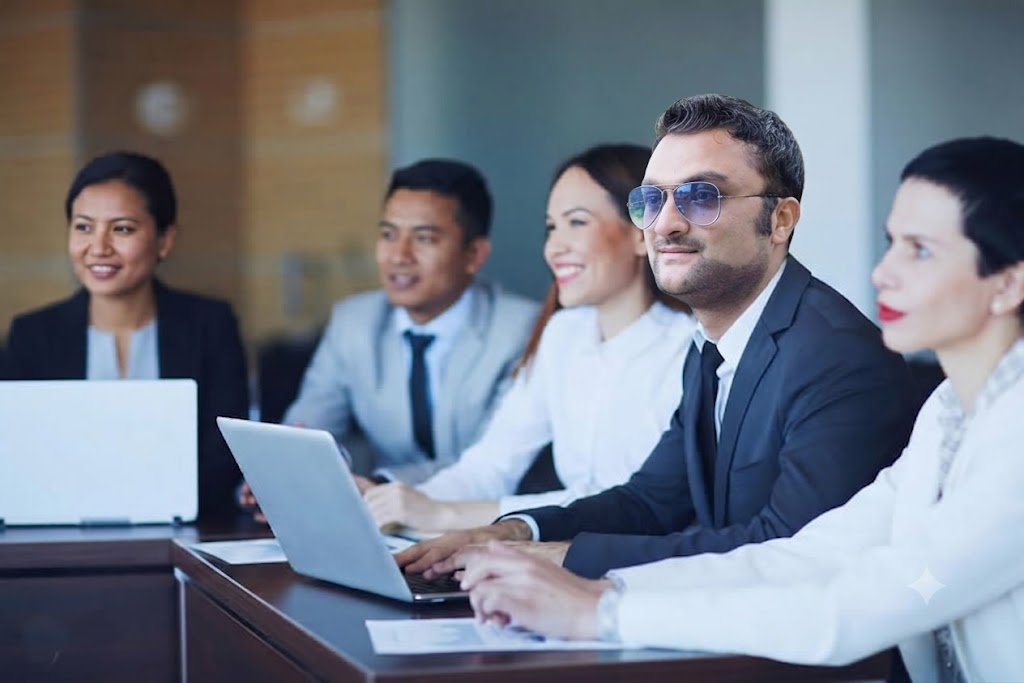
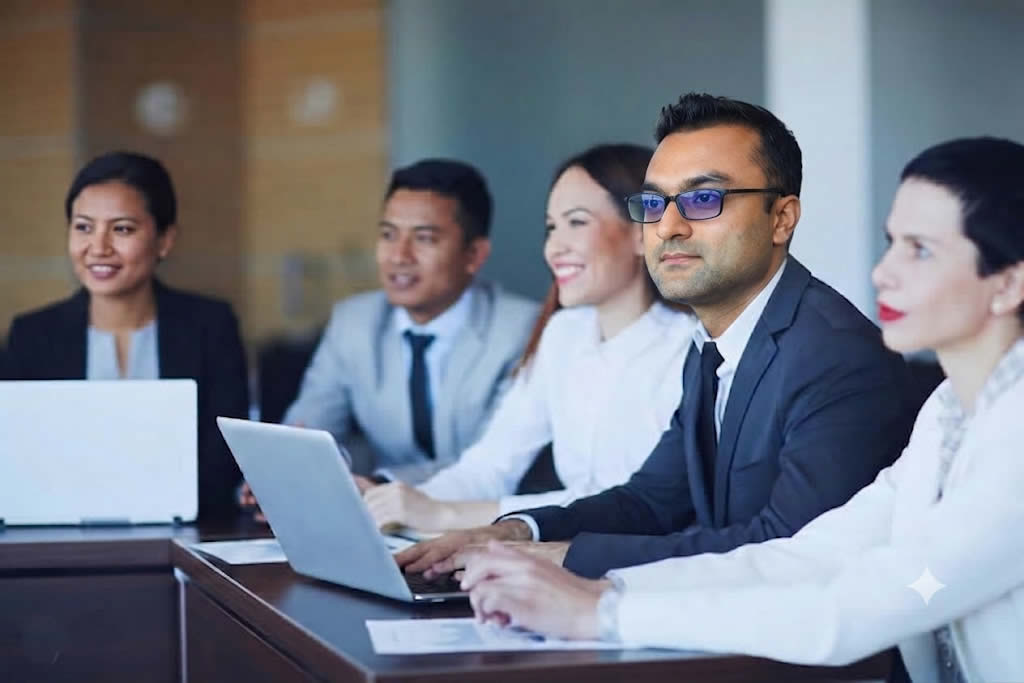
page updated

Changed region(s): [[0.5938, 0.123, 0.8125, 0.5227]]

diff --git a/css/theme.css b/css/theme.css
@@ -6786,6 +6786,114 @@ body {
   box-shadow: 0 10px 26px rgba(37, 99, 235, 0.36);
 }
 
+/* ============================================================
+   About → "The engineers who ship the code" — team showcase
+   on a brand-blue gradient with photos + overlapping name cards.
+   ============================================================ */
+.eng-showcase {
+  position: relative;
+  margin-top: 3.5rem;
+  border-radius: 26px;
+  padding: clamp(2.25rem, 4vw, 3.5rem) clamp(1.25rem, 3vw, 3rem) clamp(2.5rem, 4vw, 3.5rem);
+  overflow: hidden;
+  background:
+    radial-gradient(ellipse 60% 55% at 85% 0%, rgba(46, 125, 224, 0.40) 0%, transparent 55%),
+    radial-gradient(ellipse 50% 50% at 0% 100%, rgba(99, 102, 241, 0.25) 0%, transparent 55%),
+    linear-gradient(160deg, #0d1b2e 0%, #0d3f8f 55%, #1a6bcc 100%);
+}
+.eng-showcase__head {
+  text-align: center;
+  max-width: 660px;
+  margin: 0 auto clamp(2rem, 4vw, 3rem);
+}
+.eng-showcase__eyebrow {
+  color: #7cb6ff !important;
+  font-size: 0.78rem; font-weight: 600;
+  letter-spacing: 0.12em; text-transform: uppercase;
+  margin: 0 0 0.75rem;
+}
+.eng-showcase__head .eng-showcase__title {
+  color: #ffffff !important;
+  font-size: clamp(1.6rem, 1.3rem + 1vw, 2.2rem) !important;
+  font-weight: 800; letter-spacing: -0.02em;
+  margin: 0 0 0.7rem !important;
+}
+.eng-showcase__lead {
+  color: rgba(255, 255, 255, 0.72) !important;
+  font-size: 1.02rem; line-height: 1.6; margin: 0;
+}
+
+.eng-row {
+  display: grid;
+  grid-template-columns: repeat(4, 1fr);
+  gap: 1.5rem;
+  max-width: 1080px;
+  margin: 0 auto;
+  align-items: end;
+}
+.eng-member {
+  display: flex;
+  flex-direction: column;
+  align-items: center;
+}
+.eng-member__photo {
+  position: relative;
+  width: 100%;
+  aspect-ratio: 4 / 5;
+  border-radius: 18px;
+  overflow: hidden;
+  background: linear-gradient(150deg, rgba(255, 255, 255, 0.14) 0%, rgba(255, 255, 255, 0.04) 100%);
+  box-shadow: 0 22px 45px rgba(2, 8, 23, 0.40), inset 0 0 0 1px rgba(255, 255, 255, 0.10);
+  transition: transform 0.25s ease, box-shadow 0.25s ease;
+}
+.eng-member__photo::before {
+  content: attr(data-initials);
+  position: absolute; inset: 0; z-index: 0;
+  display: flex; align-items: center; justify-content: center;
+  font-family: 'Inter', system-ui, sans-serif;
+  font-size: clamp(2.5rem, 5vw, 3.5rem); font-weight: 800;
+  color: rgba(255, 255, 255, 0.85); letter-spacing: -0.03em;
+}
+.eng-member__photo img {
+  position: relative; z-index: 1;
+  width: 100%; height: 100%;
+  object-fit: cover; object-position: center top;
+  display: block;
+}
+.eng-member:hover .eng-member__photo {
+  transform: translateY(-4px);
+  box-shadow: 0 30px 55px rgba(2, 8, 23, 0.50), inset 0 0 0 1px rgba(124, 182, 255, 0.40);
+}
+.eng-member__card {
+  position: relative; z-index: 2;
+  width: 90%;
+  margin-top: -2.4rem;
+  background: #ffffff;
+  border-radius: 14px;
+  padding: 0.95rem 1.15rem;
+  box-shadow: 0 18px 38px rgba(2, 8, 23, 0.28);
+  text-align: left;
+}
+.eng-member__name {
+  font-size: 1rem !important; font-weight: 700 !important;
+  color: #0f172a !important; margin: 0 !important; line-height: 1.25;
+  letter-spacing: -0.01em;
+}
+.eng-member__role {
+  font-size: 0.85rem !important; font-weight: 500 !important;
+  color: #2563eb !important; margin: 0.2rem 0 0 !important;
+}
+
+@media (max-width: 900px) {
+  .eng-row { grid-template-columns: repeat(2, 1fr); gap: 1.25rem; }
+}
+@media (max-width: 480px) {
+  .eng-row { grid-template-columns: 1fr 1fr; gap: 0.85rem; }
+  .eng-member__card { width: 94%; padding: 0.75rem 0.85rem; }
+  .eng-member__name { font-size: 0.9rem !important; }
+  .eng-member__role { font-size: 0.78rem !important; }
+}
+
 
 
 

diff --git a/about.html b/about.html
@@ -416,57 +416,51 @@
 
         <p class="leader-card__footnote" data-reveal data-reveal-delay="4">Below the leadership is an in-house engineering team in Kathmandu that bridges back-end, mobile, AI, SaaS, and DevOps practices. The same engineer who appears in discovery is the engineer who ships the code &mdash; not a bait-and-switch onto juniors after the contract signs. <strong>We don&rsquo;t use subcontractors. We don&rsquo;t outsource to a freelancer pool. The team is the team.</strong></p>
 
-        <!-- Engineering team — named, LinkedIn-verifiable engineers -->
-        <header class="pillar-section__head team-members__head" data-reveal>
-          <p class="pillar-section__eyebrow">THE ENGINEERS</p>
-          <h2>The engineers who ship the code.</h2>
-          <p class="pillar-section__lead">The in-house Kathmandu team behind the platforms &mdash; named and reachable, the same people from discovery through deployment.</p>
-        </header>
+        <!-- Engineering team — showcase on brand gradient, name cards below -->
+        <div class="eng-showcase" data-reveal>
+          <header class="eng-showcase__head">
+            <p class="eng-showcase__eyebrow">THE ENGINEERS</p>
+            <h2 class="eng-showcase__title">The engineers who ship the code.</h2>
+            <p class="eng-showcase__lead">The in-house Kathmandu team behind the platforms &mdash; named and reachable, the same people from discovery through deployment.</p>
+          </header>
 
-        <div class="team-grid">
-          <!-- Sujit Sah -->
-          <article class="team-card" data-reveal data-reveal-delay="1">
-            <div class="team-card__photo" data-initials="SS"><img src="images/sujit.jpg" alt="Sujit Sah, Full Stack Developer" loading="lazy" width="96" height="96" decoding="async" onerror="this.style.display='none';"></div>
-            <h3 class="team-card__name">Sujit Sah</h3>
-            <p class="team-card__role">Full Stack Developer</p>
-            <div class="team-card__exp">
-              <svg width="15" height="15" viewBox="0 0 24 24" fill="none" stroke="currentColor" stroke-width="2" stroke-linecap="round" stroke-linejoin="round" aria-hidden="true"><circle cx="12" cy="12" r="9"/><polyline points="12 7 12 12 15.5 14"/></svg>
-              <span><strong>16</strong> Years Experience</span>
-            </div>
-          </article>
+          <div class="eng-row">
+            <!-- Sujit Sah -->
+            <article class="eng-member" data-reveal data-reveal-delay="1">
+              <div class="eng-member__photo" data-initials="SS"><img src="images/sujit.jpg" alt="Sujit Sah, Full Stack Developer" loading="lazy" decoding="async" onerror="this.remove();"></div>
+              <div class="eng-member__card">
+                <h3 class="eng-member__name">Sujit Sah</h3>
+                <p class="eng-member__role">Full Stack Developer</p>
+              </div>
+            </article>
 
-          <!-- Kaushal Sah -->
-          <article class="team-card" data-reveal data-reveal-delay="2">
-            <div class="team-card__photo team-card__photo--initials" data-initials="KS"></div>
-            <h3 class="team-card__name">Kaushal Sah</h3>
-            <p class="team-card__role">DevOps Engineer</p>
-            <div class="team-card__exp">
-              <svg width="15" height="15" viewBox="0 0 24 24" fill="none" stroke="currentColor" stroke-width="2" stroke-linecap="round" stroke-linejoin="round" aria-hidden="true"><circle cx="12" cy="12" r="9"/><polyline points="12 7 12 12 15.5 14"/></svg>
-              <span><strong>14</strong> Years Experience</span>
-            </div>
-          </article>
+            <!-- Kaushal Sah -->
+            <article class="eng-member" data-reveal data-reveal-delay="2">
+              <div class="eng-member__photo" data-initials="KS"><img src="images/kaushal.jpg" alt="Kaushal Sah, DevOps Engineer" loading="lazy" decoding="async" onerror="this.remove();"></div>
+              <div class="eng-member__card">
+                <h3 class="eng-member__name">Kaushal Sah</h3>
+                <p class="eng-member__role">DevOps Engineer</p>
+              </div>
+            </article>
 
-          <!-- Indra Kumar Yadav -->
-          <article class="team-card" data-reveal data-reveal-delay="3">
-            <div class="team-card__photo" data-initials="IY"><img src="images/indra.jpg" alt="Indra Kumar Yadav, Full Stack &amp; AI Engineer" loading="lazy" width="96" height="96" decoding="async" onerror="this.style.display='none';"></div>
-            <h3 class="team-card__name">Indra Kumar Yadav</h3>
-            <p class="team-card__role">Full Stack &amp; AI Engineer</p>
-            <div class="team-card__exp">
-              <svg width="15" height="15" viewBox="0 0 24 24" fill="none" stroke="currentColor" stroke-width="2" stroke-linecap="round" stroke-linejoin="round" aria-hidden="true"><circle cx="12" cy="12" r="9"/><polyline points="12 7 12 12 15.5 14"/></svg>
-              <span><strong>15</strong> Years Experience</span>
-            </div>
-          </article>
+            <!-- Indra Kumar Yadav -->
+            <article class="eng-member" data-reveal data-reveal-delay="3">
+              <div class="eng-member__photo" data-initials="IY"><img src="images/indra.jpg" alt="Indra Kumar Yadav, Full Stack Engineer" loading="lazy" decoding="async" onerror="this.remove();"></div>
+              <div class="eng-member__card">
+                <h3 class="eng-member__name">Indra Kumar Yadav</h3>
+                <p class="eng-member__role">Full Stack Engineer</p>
+              </div>
+            </article>
 
-          <!-- Manoj Kumar Sah -->
-          <article class="team-card" data-reveal data-reveal-delay="4">
-            <div class="team-card__photo" data-initials="MS"><img src="images/manoj.jpg" alt="Manoj Kumar Sah, Full Stack &amp; Frontend Developer, AI Expert" loading="lazy" width="96" height="96" decoding="async" onerror="this.style.display='none';"></div>
-            <h3 class="team-card__name">Manoj Kumar Sah</h3>
-            <p class="team-card__role">Full Stack &amp; Frontend Developer &middot; AI Expert</p>
-            <div class="team-card__exp">
-              <svg width="15" height="15" viewBox="0 0 24 24" fill="none" stroke="currentColor" stroke-width="2" stroke-linecap="round" stroke-linejoin="round" aria-hidden="true"><circle cx="12" cy="12" r="9"/><polyline points="12 7 12 12 15.5 14"/></svg>
-              <span><strong>15</strong> Years Experience</span>
-            </div>
-          </article>
+            <!-- Manoj Kumar Sah -->
+            <article class="eng-member" data-reveal data-reveal-delay="4">
+              <div class="eng-member__photo" data-initials="MS"><img src="images/manoj.jpg" alt="Manoj Kumar Sah, Frontend Engineer" loading="lazy" decoding="async" onerror="this.remove();"></div>
+              <div class="eng-member__card">
+                <h3 class="eng-member__name">Manoj Kumar Sah</h3>
+                <p class="eng-member__role">Frontend Engineer</p>
+              </div>
+            </article>
+          </div>
         </div>
       </div>
     </section>

diff --git a/index.html b/index.html
@@ -269,7 +269,7 @@
       <div class="right" data-reveal data-reveal-delay="2">
         <div class="about-section__visual">
           <span class="about-section__glow" aria-hidden="true"></span>
-          <picture data-built><img src="images/about4.jpg" alt="Team" loading="lazy" width="1024" height="682" decoding="async"></picture>
+          <picture data-built><img src="images/about-new.jpg" alt="Team" loading="lazy" width="1024" height="682" decoding="async"></picture>
           <div class="about-section__badge" aria-hidden="true">
             <span class="about-section__badge-num">Since</span>
             <span class="about-section__badge-year">Oct 2010</span>